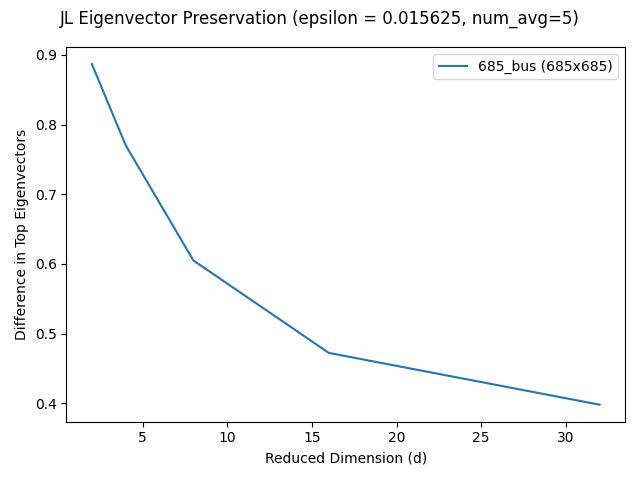
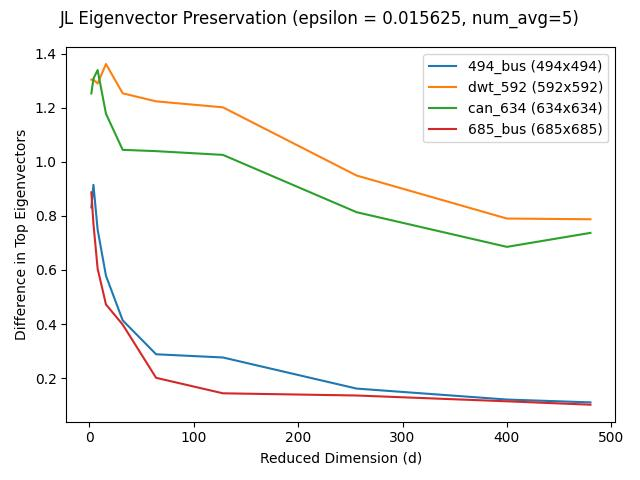
working toward rectangular mats

diff --git a/src/Tester.py b/src/Tester.py
@@ -120,7 +120,8 @@ class Tester:
 
         euc_dict = {}
         cos_dict = {}
-        ns = []
+        dims = []
+        nnzs = []
         for name, A in mats.items():
             print(f"matrix: {name}")
 
@@ -142,12 +143,14 @@ class Tester:
                 # cosine_diffs.append(diff)
             euc_dict[name] = euclidean_diffs
             # cos_dict[name] = cosine_diffs
-            ns.append(A.shape[0])
+            dims.append(A.shape)
+            nnzs.append(A.nnz)
         plot1(euc_dict, 
               d_reduced, 
               epsilon, 
               num_iter, 
-              ns,
+              dims,
+              nnzs,
               self.save_fig, 
               self.show_fig)
 
@@ -201,7 +204,18 @@ if __name__ == "__main__":
     jl = JohnsonLindenstrauss()
     epsilon = 1/64
     n = 5
-    ds = [2, 4, 8, 16, 32]
-    mats = ["464_bus", "685_bus"]
+    ds = [2, 4, 8, 16, 32, 64, 128, 256, 400, 480]
+
+    """ 
+    SQUARE
+    Some bad boys: ["dwt_592", "can_634", "1138_bus", "bcsstm24"]
+    Some good boys: ["494_bus", "685_bus"]
+
+    RECTANGULAR
+    ["ash219"]
+    """
+
+    # TODO: rectangular tests
+    mats = ["494_bus", "685_bus"]
     test = Tester(jl,mats=mats, save_fig=True, show_fig=True)
     test.compare_eigenvectors(ds, epsilon, n)
